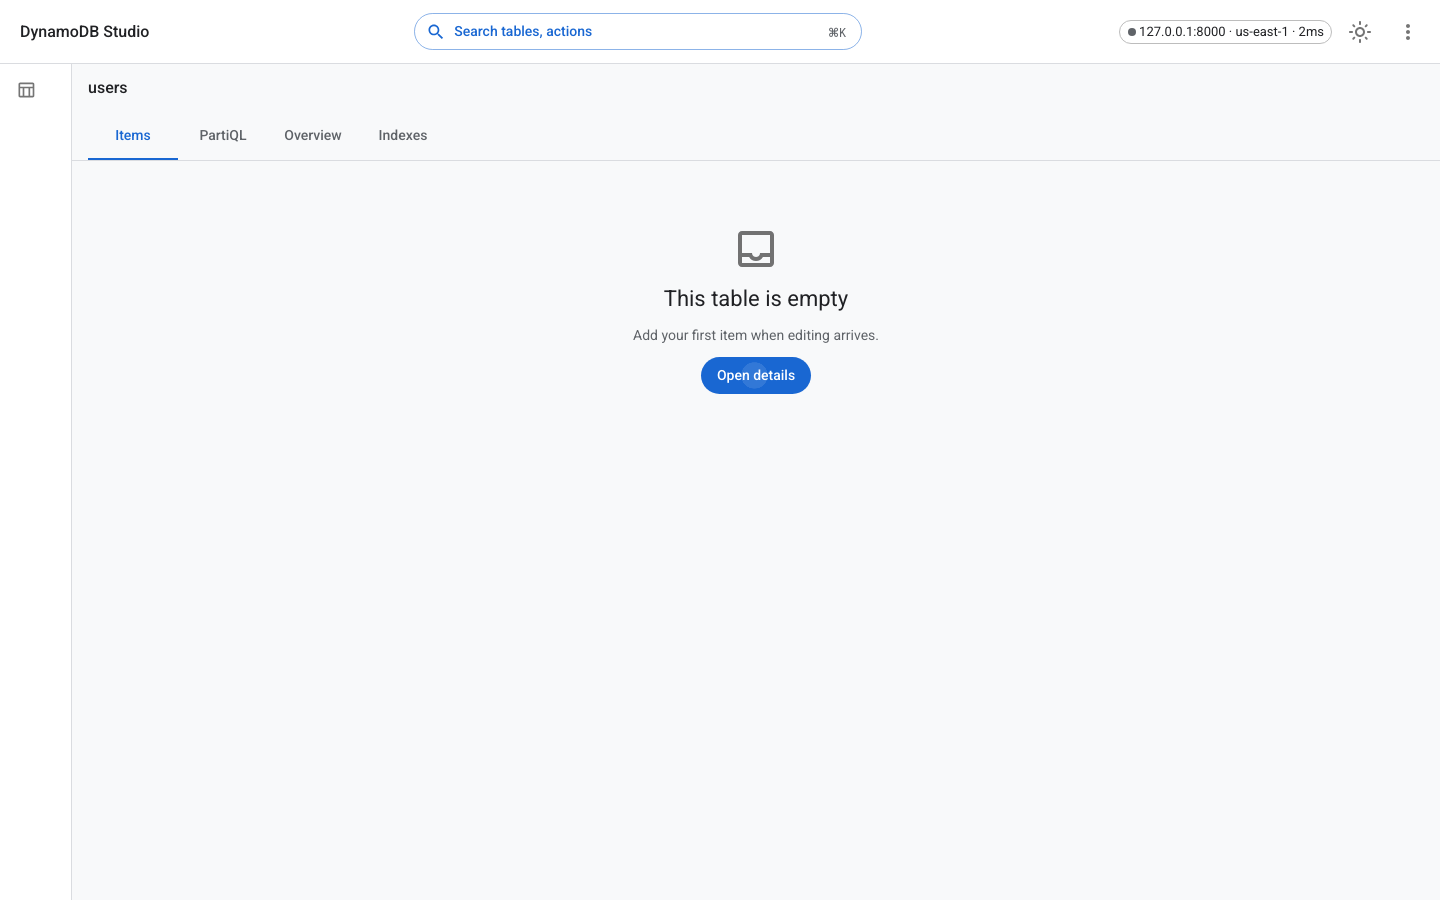
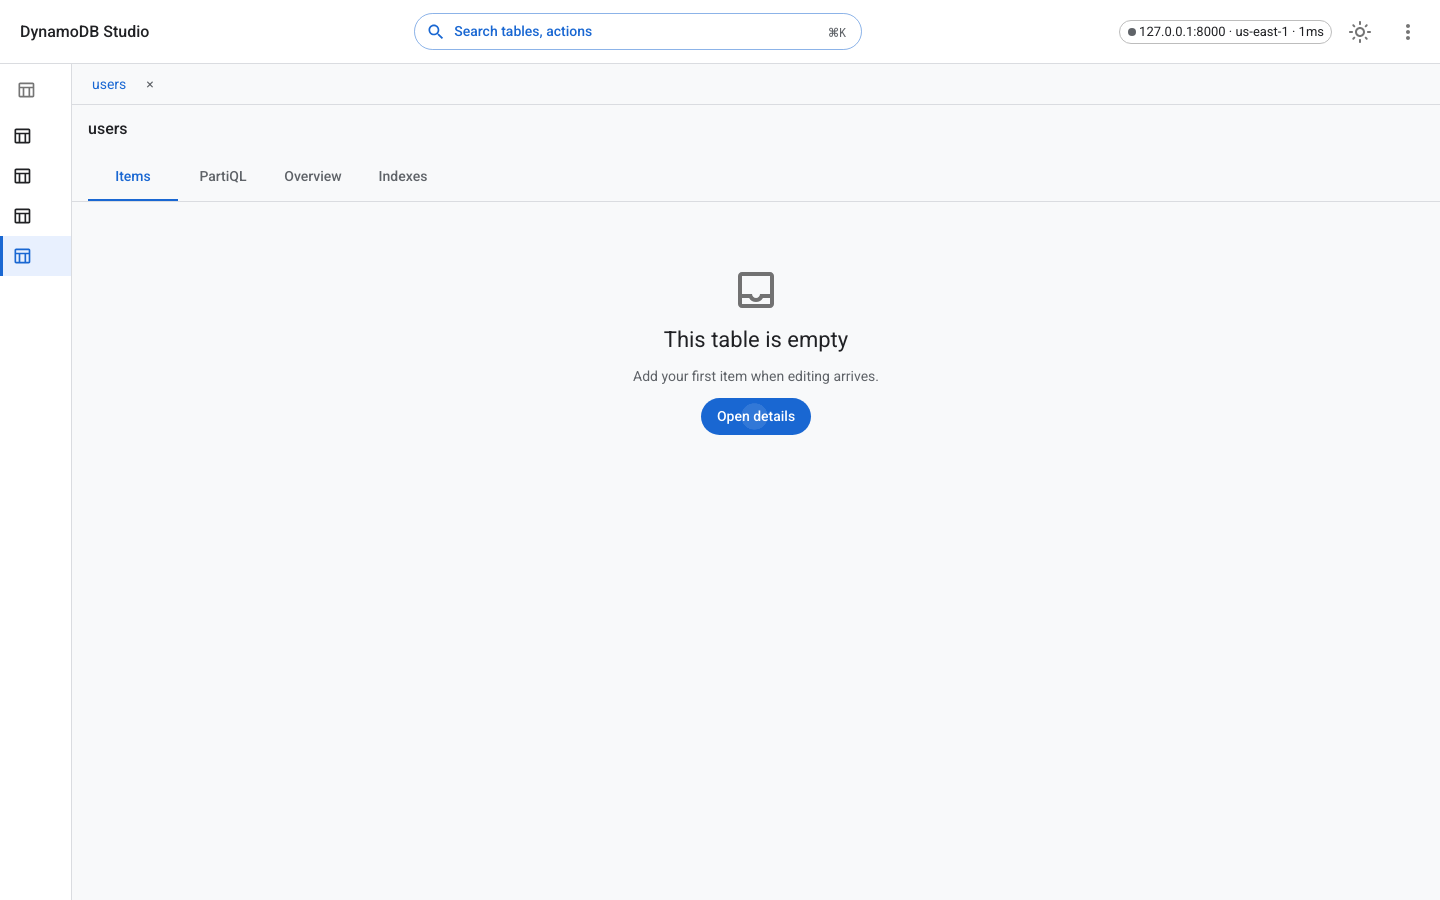
test(web): cover the table explorer in the browser
Search, keyboard, deep links, and a few hundred virtualized tables run against DynamoDB Local. The open-table strip is a navigation list so the close control is allowed, and light and dark screenshots have no serious axe violations.

Refs AC-3.1, AC-3.6, AC-3.7, T3.9

diff --git a/e2e/tables.spec.ts b/e2e/tables.spec.ts
@@ -1,0 +1,143 @@
+import {
+  CreateTableCommand,
+  DeleteTableCommand,
+  DynamoDBClient,
+  ResourceInUseException,
+} from "@aws-sdk/client-dynamodb";
+import AxeBuilder from "@axe-core/playwright";
+import { expect, type Page, test } from "@playwright/test";
+import { isSerious } from "./axe.js";
+import { connectLocal, openWorkspace } from "./session.js";
+
+const generated = Array.from({ length: 300 }, (_unused, index) => {
+  return `p3e-${String(index).padStart(3, "0")}`;
+});
+
+function localDynamo(): DynamoDBClient {
+  return new DynamoDBClient({
+    region: "us-east-1",
+    endpoint: "http://127.0.0.1:8000",
+    credentials: { accessKeyId: "local", secretAccessKey: "local" },
+  });
+}
+
+async function ensureTable(client: DynamoDBClient, name: string): Promise<void> {
+  try {
+    await client.send(
+      new CreateTableCommand({
+        TableName: name,
+        BillingMode: "PAY_PER_REQUEST",
+        AttributeDefinitions: [{ AttributeName: "id", AttributeType: "S" }],
+        KeySchema: [{ AttributeName: "id", KeyType: "HASH" }],
+      }),
+    );
+  } catch (error) {
+    if (!(error instanceof ResourceInUseException)) {
+      throw error;
+    }
+  }
+}
+
+async function removeTable(client: DynamoDBClient, name: string): Promise<void> {
+  try {
+    await client.send(new DeleteTableCommand({ TableName: name }));
+  } catch {
+    // The table may already be gone.
+  }
+}
+
+test("searches seed tables and opens orders from the keyboard", async ({ page }) => {
+  await page.setViewportSize({ width: 1440, height: 900 });
+  await openWorkspace(page, "");
+  const search = page.getByRole("searchbox", { name: "Filter tables" });
+  await expect(page.getByRole("option", { name: "users" })).toBeVisible();
+  await search.fill("ord");
+  await expect(page.getByRole("option", { name: "orders" })).toBeVisible();
+  await expect(page.getByRole("option", { name: "users" })).toHaveCount(0);
+  await page.keyboard.press("Enter");
+  await expect(page).toHaveURL(/\/t\/orders\/items$/);
+  await page.getByRole("tab", { name: "Overview" }).click();
+  await expect(page.getByText("userId")).toBeVisible();
+  await expect(page.getByText("status-createdAt-index")).toBeVisible();
+  await page.getByRole("button", { name: "About this count" }).hover();
+  await expect(page.getByRole("tooltip")).toContainText("Approximate");
+  await page.getByRole("tab", { name: "Indexes" }).click();
+  await expect(page.getByText("This index is still backfilling.")).toHaveCount(0);
+  await page.getByRole("button", { name: "Close orders" }).click();
+  await expect(page.getByRole("heading", { name: "Pick a table to get started" })).toBeVisible();
+});
+
+test("deep-links overview, sessions TTL, a dotted name, and a missing table", async ({ page }) => {
+  const client = localDynamo();
+  try {
+    await ensureTable(client, "my.table-v2");
+    const connectionId = await connectLocal(page);
+    await page.goto(`/c/${connectionId}/t/orders/overview`);
+    await expect(page.getByRole("heading", { name: "Keys" })).toBeVisible();
+    await expect(page.getByText("createdAt").first()).toBeVisible();
+    await page.goto(`/c/${connectionId}/t/sessions/overview`);
+    await expect(page.getByText("Enabled on expiresAt")).toBeVisible();
+    await page.goto(`/c/${connectionId}/t/${encodeURIComponent("my.table-v2")}/overview`);
+    await expect(page.getByRole("option", { name: "my.table-v2" })).toBeVisible();
+    await expect(page.getByText(/table\/my\.table-v2/)).toBeVisible();
+    await page.goto(`/c/${connectionId}/t/missing-table/overview`);
+    await expect(page.getByText("That table doesn't exist (anymore).")).toBeVisible();
+    await page.getByRole("button", { name: "Back to tables" }).click();
+    await expect(page.getByRole("heading", { name: "Pick a table to get started" })).toBeVisible();
+  } finally {
+    await removeTable(client, "my.table-v2");
+    client.destroy();
+  }
+});
+
+test("scrolls, searches, and keyboard-navigates a few hundred tables", async ({ page }) => {
+  test.setTimeout(180_000);
+  const client = localDynamo();
+  try {
+    for (const name of generated) {
+      await ensureTable(client, name);
+    }
+    await page.setViewportSize({ width: 1440, height: 900 });
+    await openWorkspace(page, "");
+    await expect(page.getByText(/Tables \(3\d\d\)/)).toBeVisible({ timeout: 30_000 });
+    await expect(page.getByRole("option", { name: "p3e-299" })).toHaveCount(0);
+    const scroller = page.locator("nav[aria-label='Tables'] .overflow-auto");
+    await scroller.evaluate((element) => {
+      element.scrollTop = element.scrollHeight;
+    });
+    await expect(page.getByRole("option", { name: "p3e-299" })).toBeVisible();
+    const search = page.getByRole("searchbox", { name: "Filter tables" });
+    await search.fill("p3e-29");
+    await page.getByRole("listbox", { name: "Table names" }).focus();
+    await page.keyboard.press("ArrowDown");
+    await page.keyboard.press("Enter");
+    await expect(page).toHaveURL(/\/t\/p3e-291\/items$/);
+  } finally {
+    for (const name of generated) {
+      await removeTable(client, name);
+    }
+    client.destroy();
+  }
+});
+
+for (const scheme of ["light", "dark"] as const) {
+  test(`table explorer axe and screenshots in ${scheme}`, async ({ page }) => {
+    await shootExplorer(page, scheme);
+  });
+}
+
+async function shootExplorer(page: Page, scheme: "light" | "dark") {
+  await page.addInitScript((value) => {
+    localStorage.setItem("mui-mode", value);
+  }, scheme);
+  await page.emulateMedia({ colorScheme: scheme });
+  await page.setViewportSize({ width: 1440, height: 900 });
+  await openWorkspace(page, "/t/orders/overview");
+  await expect(page.getByRole("heading", { name: "Summary" })).toBeVisible();
+  await page
+    .getByRole("navigation", { name: "Tables", exact: true })
+    .screenshot({ path: `docs/screenshots/phase-3/sidebar-${scheme}.png` });
+  await page.screenshot({ path: `docs/screenshots/phase-3/overview-${scheme}.png` });
+  const result = await new AxeBuilder({ page }).analyze();
+  expect(result.violations.filter((violation) => isSerious(violation.impact))).toEqual([]);
+}

diff --git a/e2e/shell.spec.ts b/e2e/shell.spec.ts
@@ -16,7 +16,7 @@ test("keyboard can use the palette, sidebar, drawer, and shortcuts", async ({ pa
 
   await page.getByRole("searchbox", { name: "Filter tables" }).focus();
   await page.keyboard.press("Tab");
-  await expect(page.getByRole("button", { name: "New table" })).toBeFocused();
+  await expect(page.getByRole("listbox", { name: "Table names" })).toBeFocused();
 
   const open = page.getByRole("button", { name: "Open details" });
   await open.focus();
@@ -106,7 +106,10 @@ async function shootShell(page: Page, scheme: "light" | "dark") {
 
   await page.getByRole("button", { name: "Close item details" }).click();
   await page.getByRole("button", { name: "Collapse sidebar" }).click();
-  await expect(page.getByRole("navigation", { name: "Tables" })).toHaveCSS("width", "72px");
+  await expect(page.getByRole("navigation", { name: "Tables", exact: true })).toHaveCSS(
+    "width",
+    "72px",
+  );
   await page.screenshot({ path: `docs/screenshots/phase-1/shell-rail-${scheme}.png` });
 
   await page.setViewportSize({ width: 1024, height: 768 });

diff --git a/apps/web/src/features/workspace/OpenTableTabs.test.tsx b/apps/web/src/features/workspace/OpenTableTabs.test.tsx
@@ -9,7 +9,10 @@ describe("open table tabs", () => {
     const user = userEvent.setup();
     useUiStore.getState().openTable("users");
     await renderAt("/c/local/t/orders/items");
-    expect(await screen.findByRole("tab", { name: "orders", selected: true })).toBeInTheDocument();
+    expect(await screen.findByRole("button", { name: "orders" })).toHaveAttribute(
+      "aria-current",
+      "page",
+    );
     await user.click(screen.getByRole("button", { name: "Close orders" }));
     expect(await screen.findByRole("heading", { name: "users" })).toBeInTheDocument();
     await user.click(screen.getByRole("button", { name: "Close users" }));
@@ -21,7 +24,7 @@ describe("open table tabs", () => {
   it("closes a tab on middle click", async () => {
     await renderAt("/c/local/t/sessions/items");
     fireEvent(
-      await screen.findByRole("tab", { name: "sessions" }),
+      await screen.findByRole("button", { name: "sessions" }),
       new MouseEvent("auxclick", { bubbles: true, button: 1 }),
     );
     expect(

diff --git a/apps/web/src/features/workspace/SidebarTableList.tsx b/apps/web/src/features/workspace/SidebarTableList.tsx
@@ -130,7 +130,7 @@ export function SidebarTableList({ tables }: { tables?: readonly MockTable[] }) 
   return (
     <nav
       aria-label="Tables"
-      className={`flex h-full flex-col border-r border-outline bg-surface ${rail ? "w-[72px]" : "w-[280px]"}`}
+      className={`flex h-full min-h-0 flex-col overflow-hidden border-r border-outline bg-surface ${rail ? "w-[72px]" : "w-[280px]"}`}
     >
       <div className="flex items-center justify-between px-2 py-2">
         {rail ? null : (
@@ -194,7 +194,7 @@ export function SidebarTableList({ tables }: { tables?: readonly MockTable[] }) 
       {live.error === null || fixture ? null : (
         <p className="px-4 text-sm text-text-secondary">Could not load tables.</p>
       )}
-      <div ref={parentRef} className="min-h-0 flex-1 overflow-auto">
+      <div ref={parentRef} className="h-0 min-h-0 flex-1 overflow-auto">
         <div
           role="listbox"
           aria-label="Table names"

diff --git a/apps/web/src/features/workspace/OpenTableTabs.tsx b/apps/web/src/features/workspace/OpenTableTabs.tsx
@@ -49,19 +49,14 @@ export function OpenTableTabs() {
   }
 
   return (
-    <div
-      role="tablist"
-      aria-label="Open tables"
-      className="flex gap-1 overflow-auto border-b border-outline px-2"
-    >
+    <nav aria-label="Open tables" className="flex gap-1 overflow-auto border-b border-outline px-2">
       {openTables.map((name) => {
         const current = name === table;
         return (
           <div key={name} className="flex items-center">
             <button
               type="button"
-              role="tab"
-              aria-selected={current}
+              aria-current={current ? "page" : undefined}
               className={`h-10 px-3 text-sm ${current ? "text-primary" : "text-text-secondary"}`}
               onClick={() => {
                 focusTable(name);
@@ -88,6 +83,6 @@ export function OpenTableTabs() {
           </div>
         );
       })}
-    </div>
+    </nav>
   );
 }

diff --git a/apps/web/src/features/workspace/Workspace.tsx b/apps/web/src/features/workspace/Workspace.tsx
@@ -108,7 +108,7 @@ export function Workspace() {
           </div>
         ) : null}
       </div>
-      <div className="grid min-h-0 grid-cols-[auto_minmax(0,1fr)]">
+      <div className="grid h-full min-h-0 grid-cols-[auto_minmax(0,1fr)] overflow-hidden">
         <SidebarTableList />
         <div className="flex min-w-0">
           <main className="flex min-w-0 flex-1 flex-col">

diff --git a/specs/phases/phase-3-table-explorer.md b/specs/phases/phase-3-table-explorer.md
@@ -30,7 +30,7 @@ Items grid (Phase 4), create/delete table (Phase 7).
 - [x] T3.6 Overview cards + TypeBadge + CopyButton + tests
 - [x] T3.7 Indexes tab (read-only) + tests
 - [x] T3.8 Status polling for transitional states + tests
-- [ ] T3.9 Playwright: open 3 tables, search, keyboard-only, light/dark screenshots, axe
+- [x] T3.9 Playwright: open 3 tables, search, keyboard-only, light/dark screenshots, axe
 - [ ] T3.10 Progress + phase summary
 
 ## 5. Acceptance criteria

diff --git a/specs/progress.md b/specs/progress.md
@@ -45,7 +45,7 @@
 - [x] T3.6 Overview
 - [x] T3.7 Indexes tab
 - [x] T3.8 Status polling
-- [ ] T3.9 Playwright
+- [x] T3.9 Playwright
 - [ ] T3.10 Progress summary
 
 ## Acceptance criteria evidence
